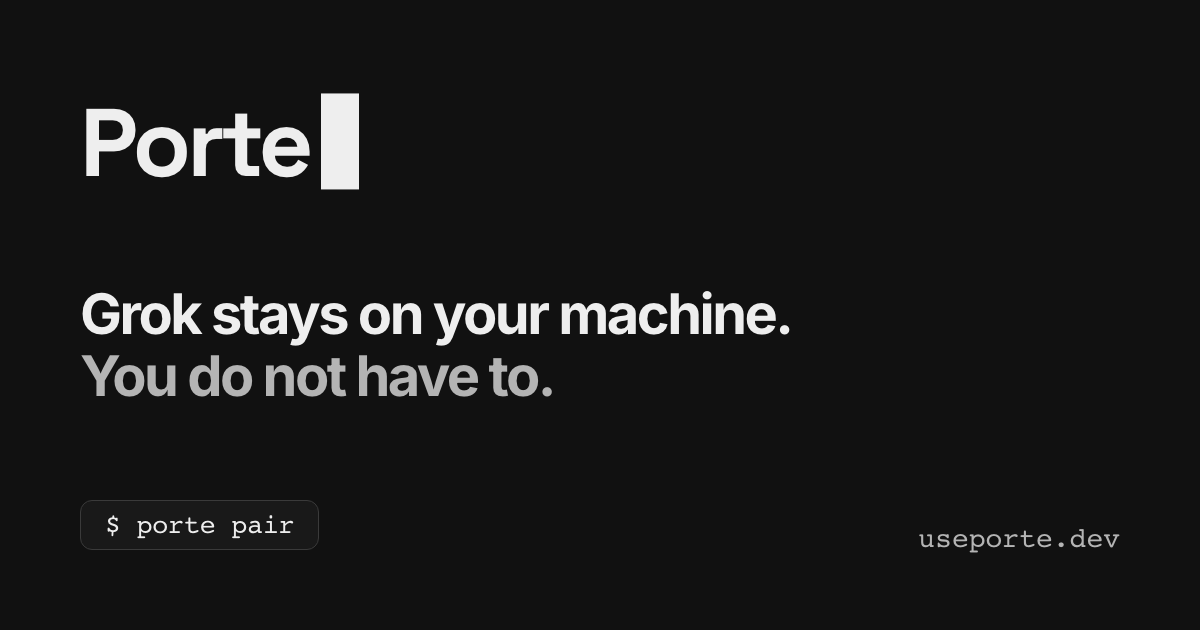
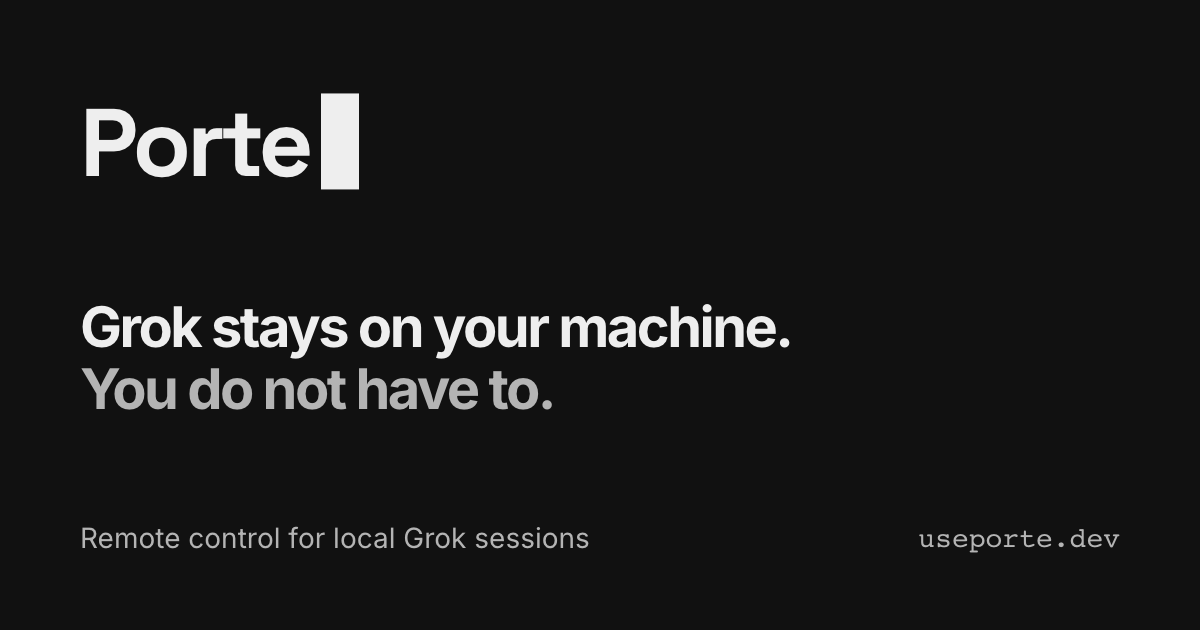
feat(web): og card drops the command, states the product

Changed region(s): [[0.0617, 0.4524, 0.6783, 0.6635], [0.0617, 0.8143, 0.4933, 0.8746]]

diff --git a/apps/web/.storybook/pages/social-card.stories.tsx b/apps/web/.storybook/pages/social-card.stories.tsx
@@ -1,5 +1,4 @@
 import type { Meta, StoryObj } from '@storybook/tanstack-react'
-import { PLUGIN_INSTALL_COMMANDS } from '@web/lib/product.ts'
 
 /**
  * The 1200×630 share card behind `og:image`.
@@ -25,10 +24,7 @@ function SocialCard() {
         <span className="text-muted-foreground">You do not have to.</span>
       </p>
       <div className="flex items-end justify-between text-[28px]">
-        <code className="rounded-xl border border-border bg-surface px-6 py-3 font-mono">
-          {/* The card fits one line, so it shows the install step alone. */}${' '}
-          {PLUGIN_INSTALL_COMMANDS[1]}
-        </code>
+        <span className="text-muted-foreground">Remote control for local Grok sessions</span>
         <span className="font-mono text-muted-foreground">useporte.dev</span>
       </div>
     </div>
